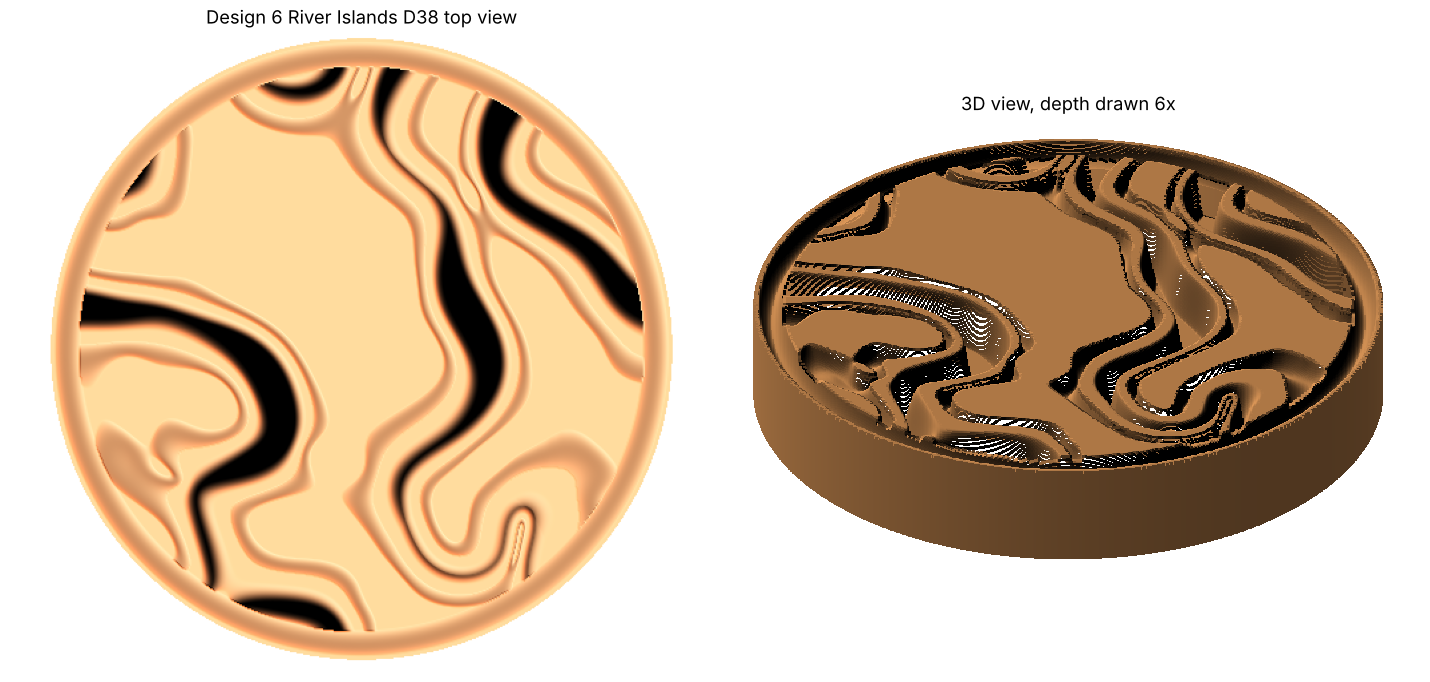
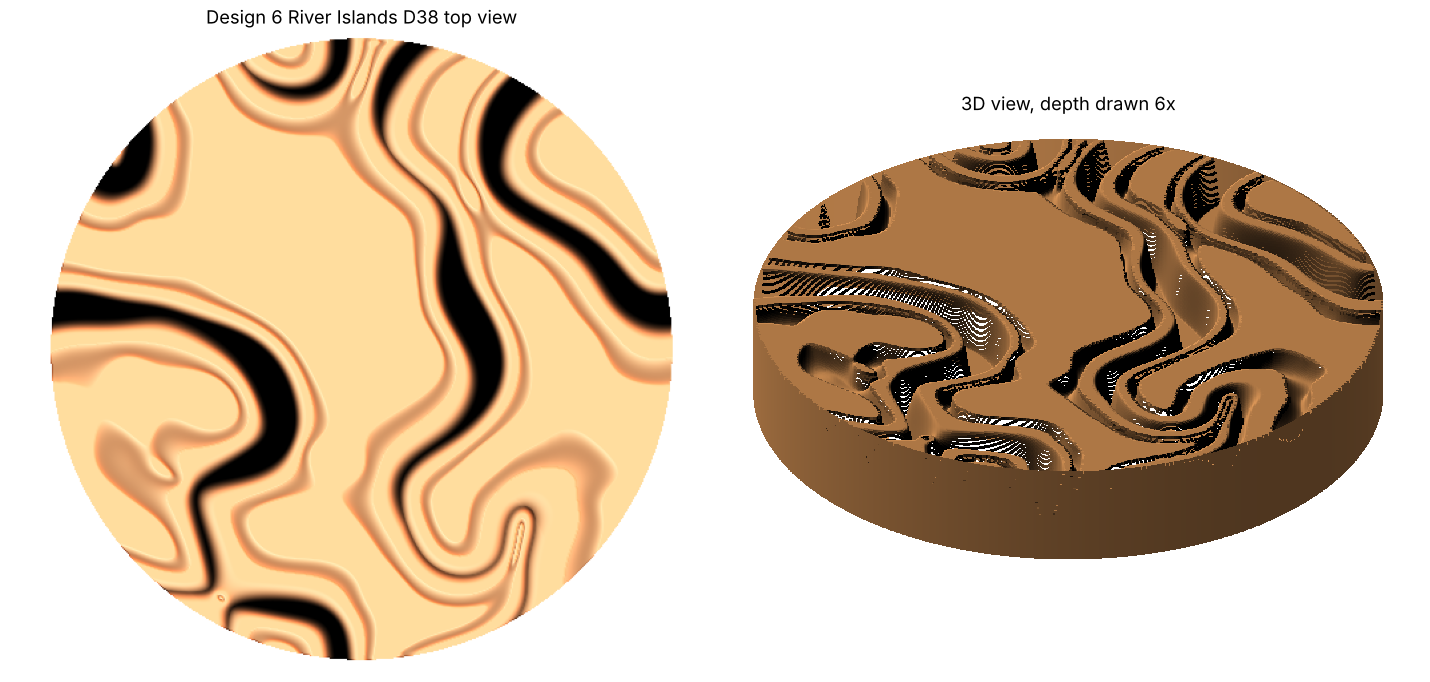
River Islands: remove border, pattern covers full knob face
Claude-Session: https://claude.ai/code/session_01K9h2EoYwdQByed15ChRkiX

Changed region(s): [[0.0308, 0.0616, 0.4923, 0.9853], [0.5231, 0.1848, 0.9846, 0.7082]]

diff --git a/knob_designs/gen_river_islands.py b/knob_designs/gen_river_islands.py
@@ -22,10 +22,11 @@ def build(R,fn=None,res=0.08):
     deep=0.5*sm(np.clip((w-d)/0.9,0,1))
     acc=0.2; xx=np.abs(d-(w+1.5)); az=np.where(xx<0.77,(np.sqrt(RB**2-xx**2)-(RB-acc)),0)*(d>w+0.8)
     bd=np.abs(r-(R-1.3)); bz=np.where(bd<0.77,(np.sqrt(RB**2-bd**2)-(RB-acc)),0)
-    inside=r<R-2.0
-    Z=-np.maximum(np.maximum(deep*inside,az*inside),bz)
-    A=((deep*inside)>0.03).sum()*res*res; band=np.abs(d-(w+1.5))<0.2; Lacc=(band&inside&(d>w+0.8)).sum()*res*res/0.4
-    L=A/0.6*1.5+Lacc+2*np.pi*(R-1.3)
+    inside=r<=R-0.3
+    Z=-np.maximum(deep*inside,az*inside)
+    Acut=((deep*inside)>0.01).sum()*res*res; Adeep=((deep*inside)>0.2).sum()*res*res
+    band=np.abs(d-(w+1.5))<0.2; Lacc=(band&inside&(d>w+0.8)).sum()*res*res/0.4
+    L=Acut/0.15+Adeep/0.8+Lacc   # finish stepover 0.15 (scallop ~0.002 mm) + rough pass + accent lines
     return X,Y,r,Z,L
 for R in (25,19):
     L=render(f"riverislands_D{2*R}",R,None,"Design 6 River Islands"); print(2*R,"approx path mm",round(L),"min @F200",round(L/200,1))
